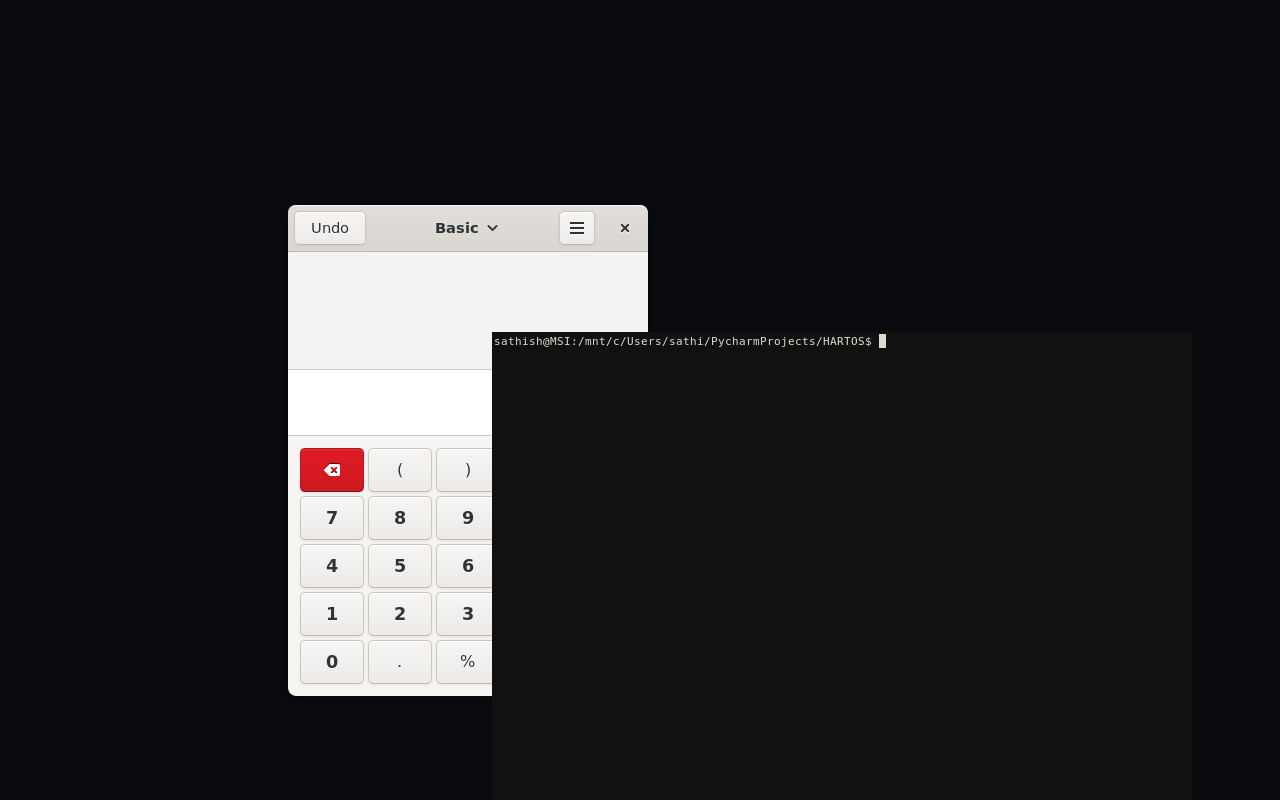
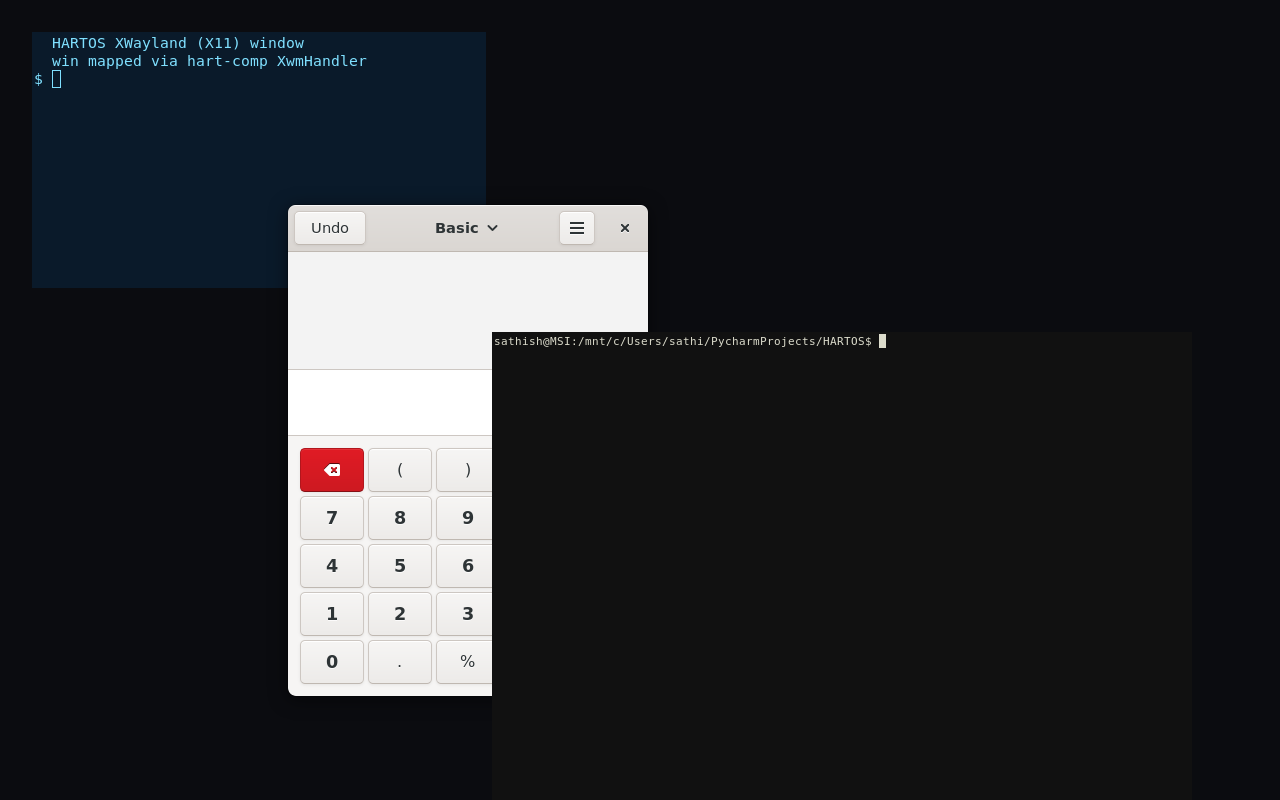
fix(compositor): M3 XWayland windows now PAINT (xwayland-shell association)
M3's XWayland X11 windows mapped into the compositor's bookkeeping but never
rendered a pixel: `render.element ... has_surface=false has_buffer=false
is_x11=true` for the whole session, and the isolated X11 grim capture was blank.

Root cause (verified live, not static): the dev box (Ubuntu 22.04) ships only
XWayland 22.1.1, which predates the `xwayland_shell_v1` association protocol
(added in XWayland 23.1). 22.1.1 associates an X11 window to its wl_surface via
the LEGACY `WL_SURFACE_ID` client message — and the pinned Smithay rev
(4784339) does NOT complete that legacy association for an external compositor:
its `WL_SURFACE_ID` handler only stores the id, and `set_wl_surface` is
`pub(crate)`, driven solely by the modern `xwayland_shell`/`WL_SURFACE_SERIAL`
path. So `X11Surface::wl_surface()` stayed `None`, `X11Surface::render_elements`
returned an empty Vec, and the X11 surface never reached the GlesRenderer. This
is an environment gap, not a HART-comp code bug — anvil hits the same wall on
old XWayland; production (NixOS ISO) already ships XWayland 23.1+.

Fix is two-part:
- scripts/build_xwayland_modern.sh — build XWayland 23.2.6 from source on jammy
  (links jammy glibc; a prebuilt noble binary needs glibc 2.38). Brings up
  libwayland 1.22 (23.2 needs wayland-client>=1.21; jammy has 1.20) + newer
  header-only xorgproto/wayland-protocols, all from the one reachable mirror
  (archive.ubuntu.com). 23.2 speaks xwayland_shell_v1, which Smithay DOES
[…]

Changed region(s): [[0.0, 0.0312, 0.4062, 0.375]]

diff --git a/compositor/src/winit.rs b/compositor/src/winit.rs
@@ -125,6 +125,13 @@ use crate::{
 /// transition (0→N / N→0) instead of spamming every frame. Pure observability.
 static LAYERS_PAINTED: std::sync::atomic::AtomicUsize = std::sync::atomic::AtomicUsize::new(0);
 
+/// One-shot marker stashed in an X11 `Window`'s user-data the first time it is given
+/// keyboard focus (on its first associated commit — see `CompositorHandler::commit`).
+/// X11 surfaces associate their `wl_surface` ASYNCHRONOUSLY under XWayland, so the
+/// focus-on-map cannot happen in `map_window_request` (the surface is still `None`
+/// there); it is deferred to the first commit and de-duplicated by this marker.
+struct X11Focused;
+
 // ────────────────────────────────────────────────────────────────────────────
 // Per-client state. Carries the compositor-side client bookkeeping Smithay needs.
 // ────────────────────────────────────────────────────────────────────────────
@@ -525,6 +532,27 @@ impl CompositorHandler for State {
                     keyboard.set_focus(self, Some(root.clone()), serial);
                 }
             }
+
+            // X11 (XWayland) keyboard-focus-on-association. An X11 toplevel mints its
+            // handle EARLY (in `XwmHandler::map_window_request`, before the wl_surface
+            // exists), so the xdg map-edge branch above is skipped for it. But the
+            // X11↔wl_surface association is ASYNC: `wl_surface()` only becomes real on
+            // the client's first commit (the xwayland-shell serial handshake). THIS is
+            // that first commit — the surface now has a buffer and `window_for_surface`
+            // matched it, so it IS associated. Give the X11 window keyboard focus once,
+            // here, so a just-launched X11 app receives keystrokes without a click. The
+            // one-shot guard is a marker in the window's user-data.
+            if &root == surface
+                && window.x11_surface().is_some()
+                && surface_has_buffer(surface)
+                && window.user_data().get::<X11Focused>().is_none()
+            {
+                window.user_data().insert_if_missing(|| X11Focused);
+                self.space.raise_element(&window, true);
+                let serial = SERIAL_COUNTER.next_serial();
+                let keyboard = self.keyboard.clone();
+                keyboard.set_focus(self, Some(root.clone()), serial);
+            }
         }
         ensure_initial_configure(self, surface);
     }
@@ -718,29 +746,45 @@ impl XwmHandler for State {
         let _ = window.set_mapped(true);
         let app_id = x11_app_id(&window);
         let title = x11_title(&window);
-        // X11 needs an explicit configure to learn its on-screen position. Configure
-        // it to the cascade location at the client's OWN requested SIZE
-        // (`window.geometry().size`) — NOT the space bbox, which at map time (before
-        // the buffer commits) is empty and would size the window to 0×0 (it would map
-        // but paint nothing — the bug this replaces). Then wrap it as a desktop Window.
+        // Map the X11 surface into the space at the cascade location FIRST, then
+        // configure it to the geometry the space gave it — modelled 1:1 on anvil's
+        // `map_window_request` (place → `element_bbox` → `configure`). Configuring to
+        // the post-map bbox (rather than the client's raw pre-map geometry) is the
+        // robust path: the space owns the window's on-screen rect, and X11 needs an
+        // explicit configure to learn its position. `element_bbox` carries the
+        // client's last-configure size (non-empty for a normal X11 toplevel), so the
+        // window is sized correctly, not 0×0.
         let loc = self.next_cascade_loc();
-        let size = window.geometry().size;
-        let _ = window.configure(Some(Rectangle::new(loc, size)));
         let win = Window::new_x11_window(window);
         self.space.map_element(win.clone(), loc, true);
+        if let Some(bbox) = self.space.element_bbox(&win) {
+            if let Some(xsurface) = win.x11_surface() {
+                let _ = xsurface.configure(Some(bbox));
+            }
+        }
         let handle = self.on_real_map(app_id, title, ToplevelKind::XWayland);
         win.user_data().insert_if_missing(|| handle);
-        // Focus the freshly-mapped X11 toplevel + raise it in the X11 stack.
+        // Raise the freshly-mapped X11 toplevel in BOTH the desktop stack and the X11
+        // stacking order (so XWayland keeps the same z-order the compositor shows).
         self.space.raise_element(&win, true);
         if let Some(x11) = win.x11_surface() {
             if let Some(xwm) = self.xwm.as_mut() {
                 let _ = xwm.raise_window(x11);
             }
         }
-        let serial = SERIAL_COUNTER.next_serial();
-        let surface = win.wl_surface().map(|s| s.into_owned());
-        let keyboard = self.keyboard.clone();
-        keyboard.set_focus(self, surface, serial);
+        // Keyboard focus: the X11↔wl_surface association is ASYNC under XWayland — at
+        // map-request time `wl_surface()` is usually still `None` (it resolves on the
+        // client's first commit, via the xwayland-shell association). So focusing the
+        // surface here would no-op. Stash the intent on the seat by raising + giving
+        // the window the activated state; the actual keyboard focus is set on the X11
+        // surface's first commit in `CompositorHandler::commit` (which now handles X11
+        // roots too), once `wl_surface()` is real. If it already resolved (fast path),
+        // focus it immediately.
+        if let Some(surface) = win.wl_surface().map(|s| s.into_owned()) {
+            let serial = SERIAL_COUNTER.next_serial();
+            let keyboard = self.keyboard.clone();
+            keyboard.set_focus(self, Some(surface), serial);
+        }
     }
 
     fn mapped_override_redirect_window(&mut self, _xwm: XwmId, window: X11Surface) {
